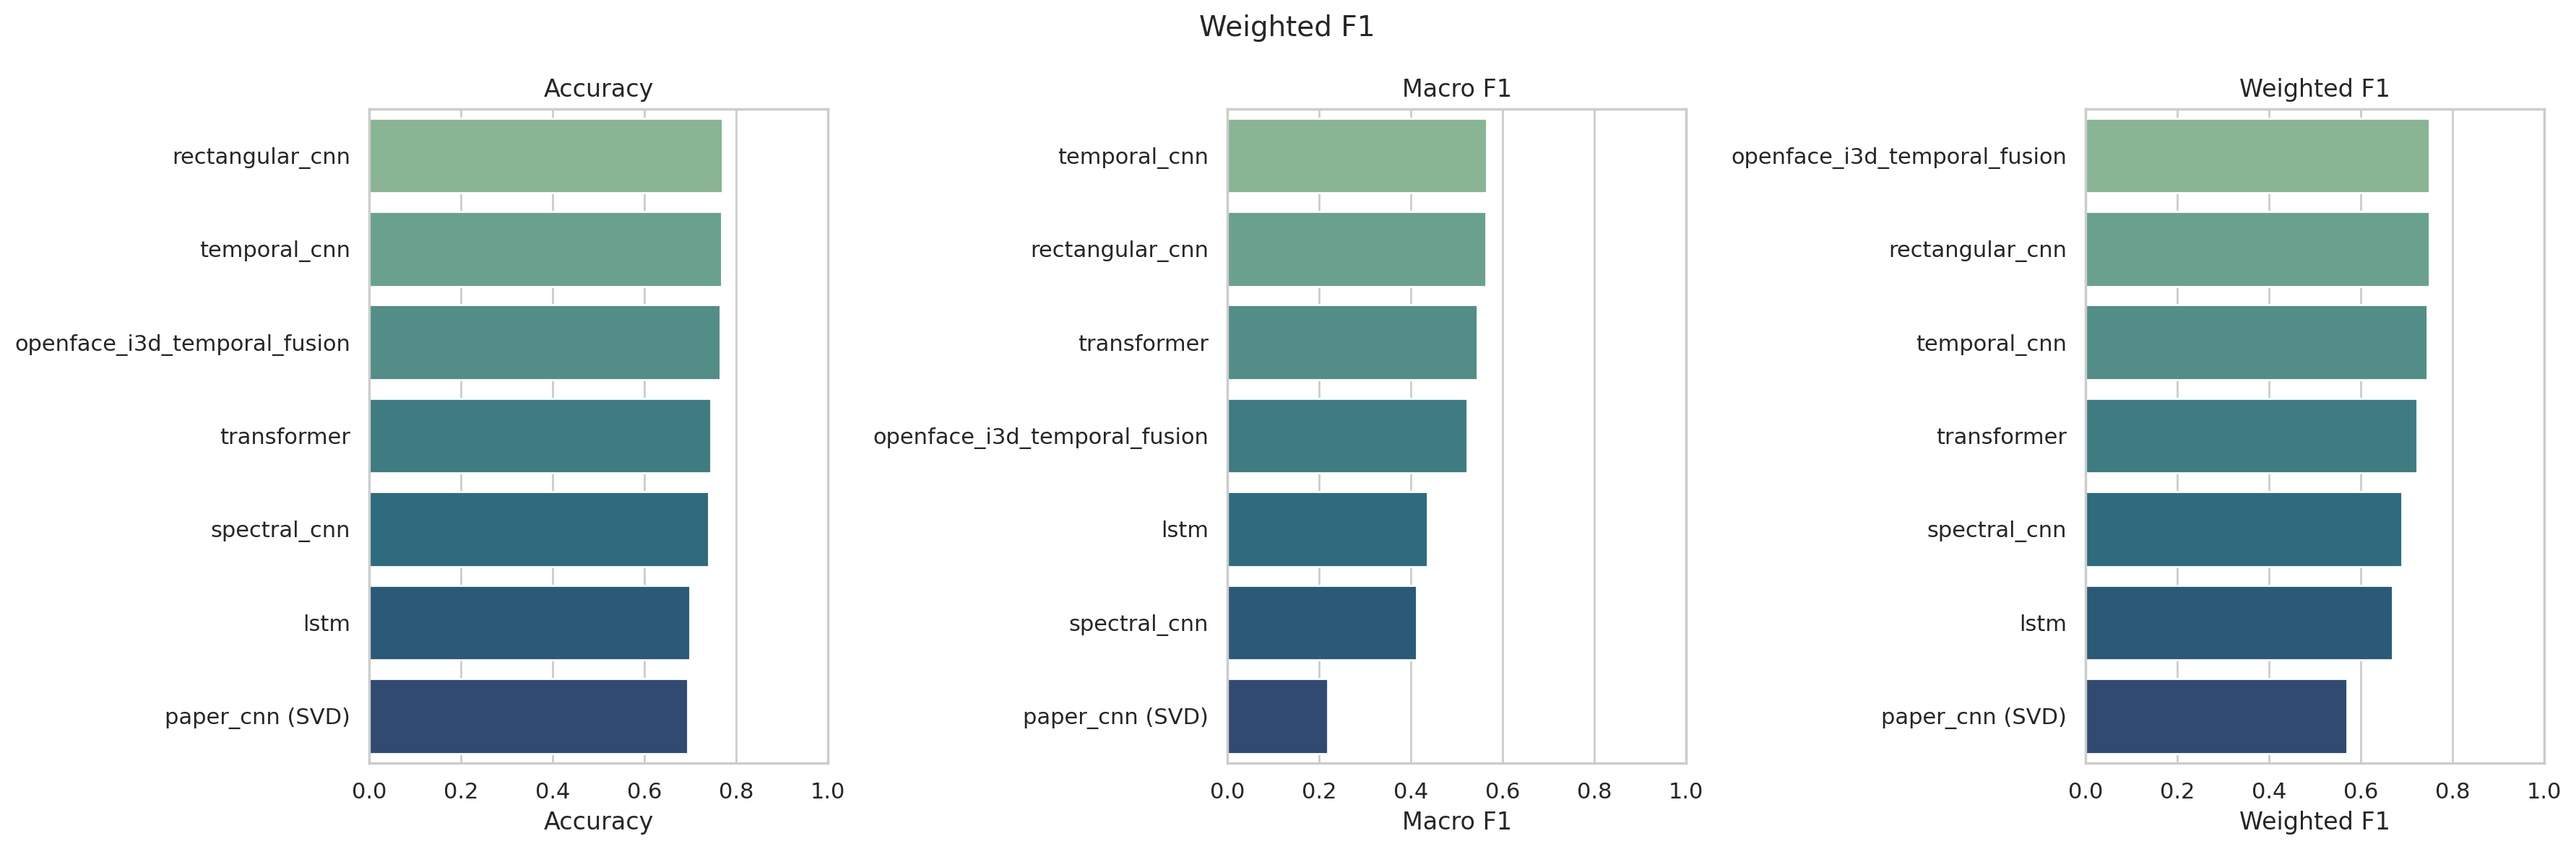
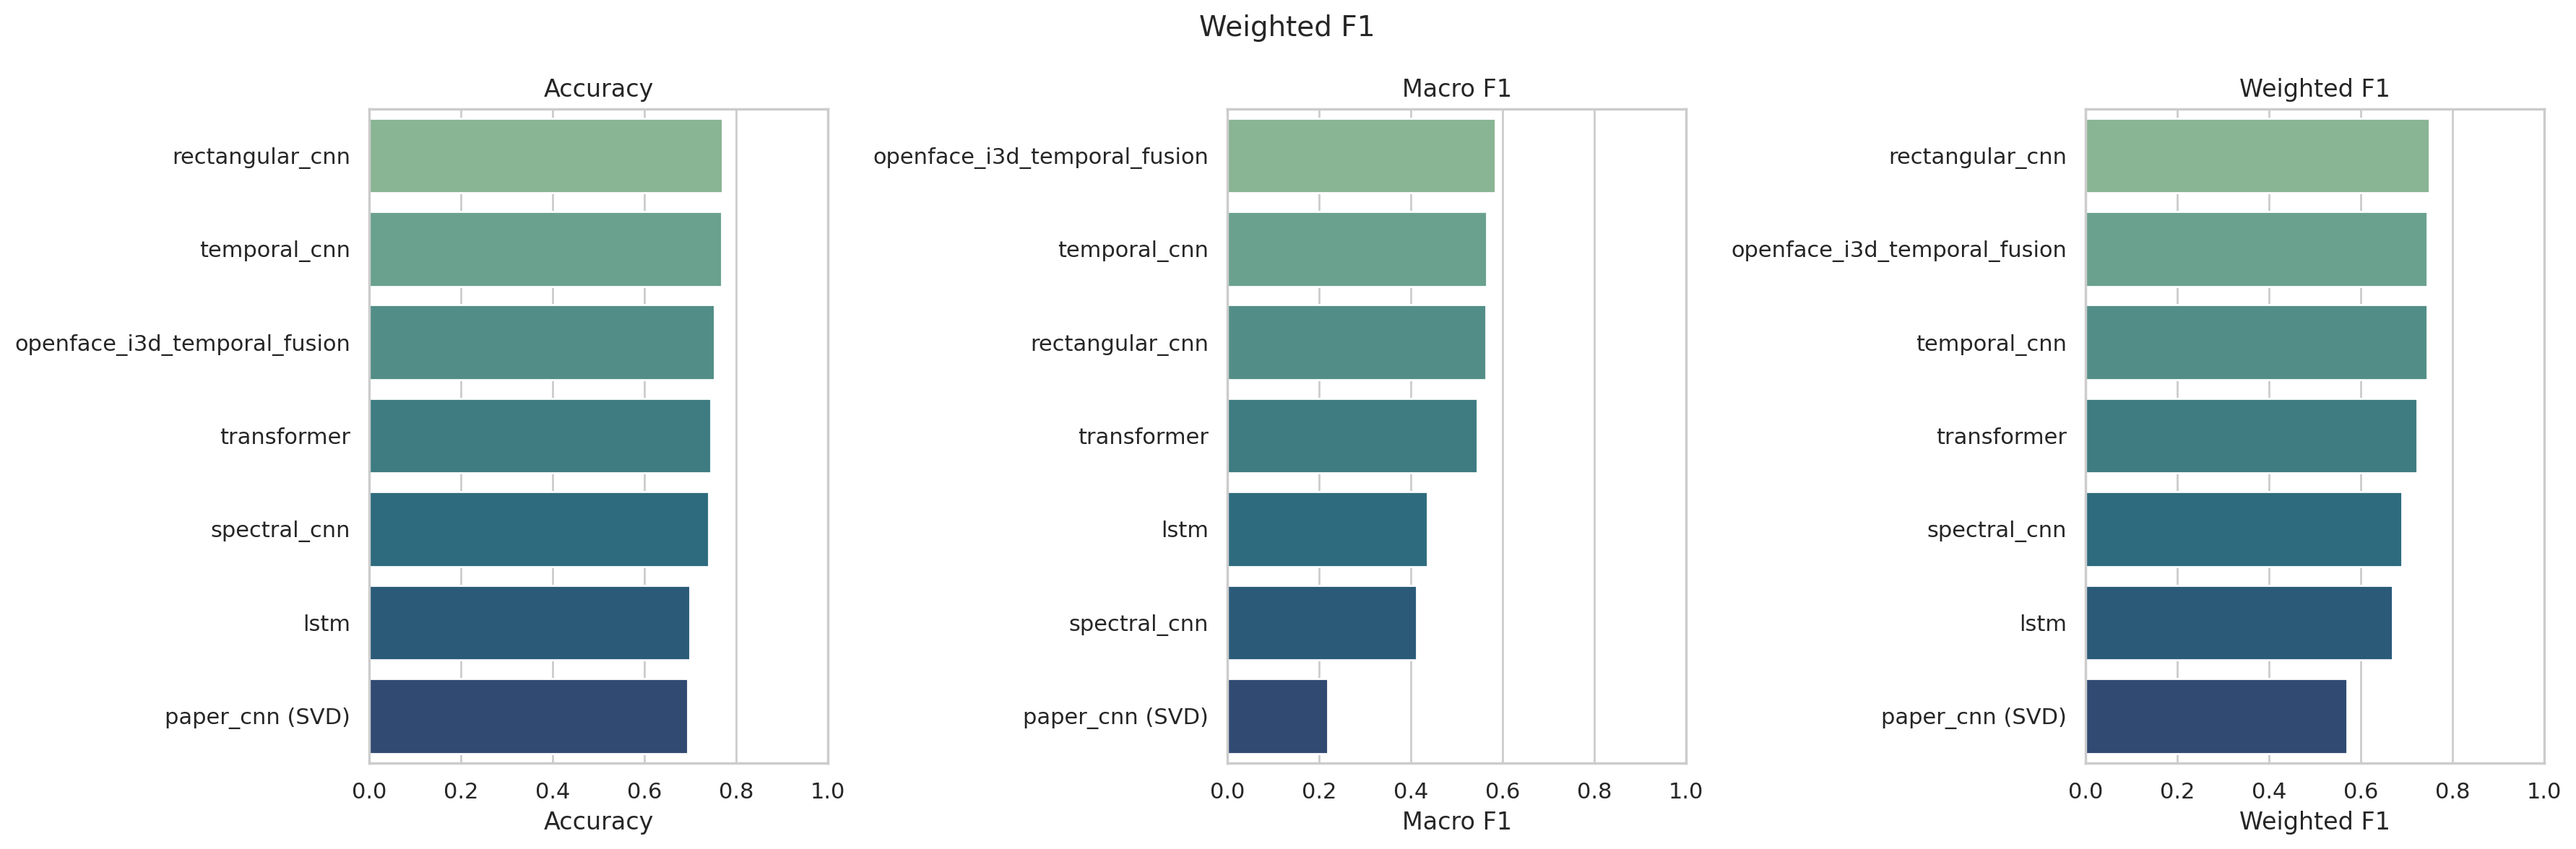
...

diff --git a/outputs/visualizations/openface_i3d_temporal_fusion_cross_entropy/report.md b/outputs/visualizations/openface_i3d_temporal_fusion_cross_entropy/report.md
@@ -2,22 +2,22 @@
 
 - Run folder: `openface_i3d_temporal_fusion_cross_entropy`
 - Metrics file: `outputs/openface_i3d_temporal_fusion_cross_entropy/metrics.json`
-- Accuracy: 0.7658
-- Macro F1: 0.5226
-- Weighted F1: 0.7500
-- Best epoch: 6
+- Accuracy: 0.7527
+- Macro F1: 0.5845
+- Weighted F1: 0.7450
+- Best epoch: 7
 
 ## Classification Report
 
 ```text
               precision    recall  f1-score   support
 
-           0       0.50      0.06      0.10        35
-           1       0.57      0.50      0.53       221
-           2       0.82      0.90      0.85       847
-           3       0.67      0.54      0.60       118
+           0       0.50      0.37      0.43        35
+           1       0.57      0.48      0.52       221
+           2       0.82      0.87      0.84       847
+           3       0.57      0.53      0.55       118
 
-    accuracy                           0.77      1221
-   macro avg       0.64      0.50      0.52      1221
-weighted avg       0.75      0.77      0.75      1221
+    accuracy                           0.75      1221
+   macro avg       0.62      0.56      0.58      1221
+weighted avg       0.74      0.75      0.74      1221
 ```

diff --git a/outputs/visualizations/comparison_report.md b/outputs/visualizations/comparison_report.md
@@ -2,14 +2,14 @@
 
 ## Best Run Per Model
 
+- `openface_i3d_temporal_fusion`: run `openface_i3d_temporal_fusion_cross_entropy` (baseline)
+  Macro F1=0.5845, Accuracy=0.7527, Best epoch=7
 - `temporal_cnn`: run `temporal_cnn` (baseline)
   Macro F1=0.5647, Accuracy=0.7682, Best epoch=38
 - `rectangular_cnn`: run `rectangular_cnn` (baseline)
   Macro F1=0.5633, Accuracy=0.7699, Best epoch=357
 - `transformer`: run `transformer` (baseline)
   Macro F1=0.5441, Accuracy=0.7445, Best epoch=30
-- `openface_i3d_temporal_fusion`: run `openface_i3d_temporal_fusion_cross_entropy` (baseline)
-  Macro F1=0.5226, Accuracy=0.7658, Best epoch=6
 - `lstm`: run `lstm` (baseline)
   Macro F1=0.4357, Accuracy=0.6994, Best epoch=11
 - `spectral_cnn`: run `spectral_cnn` (baseline)
